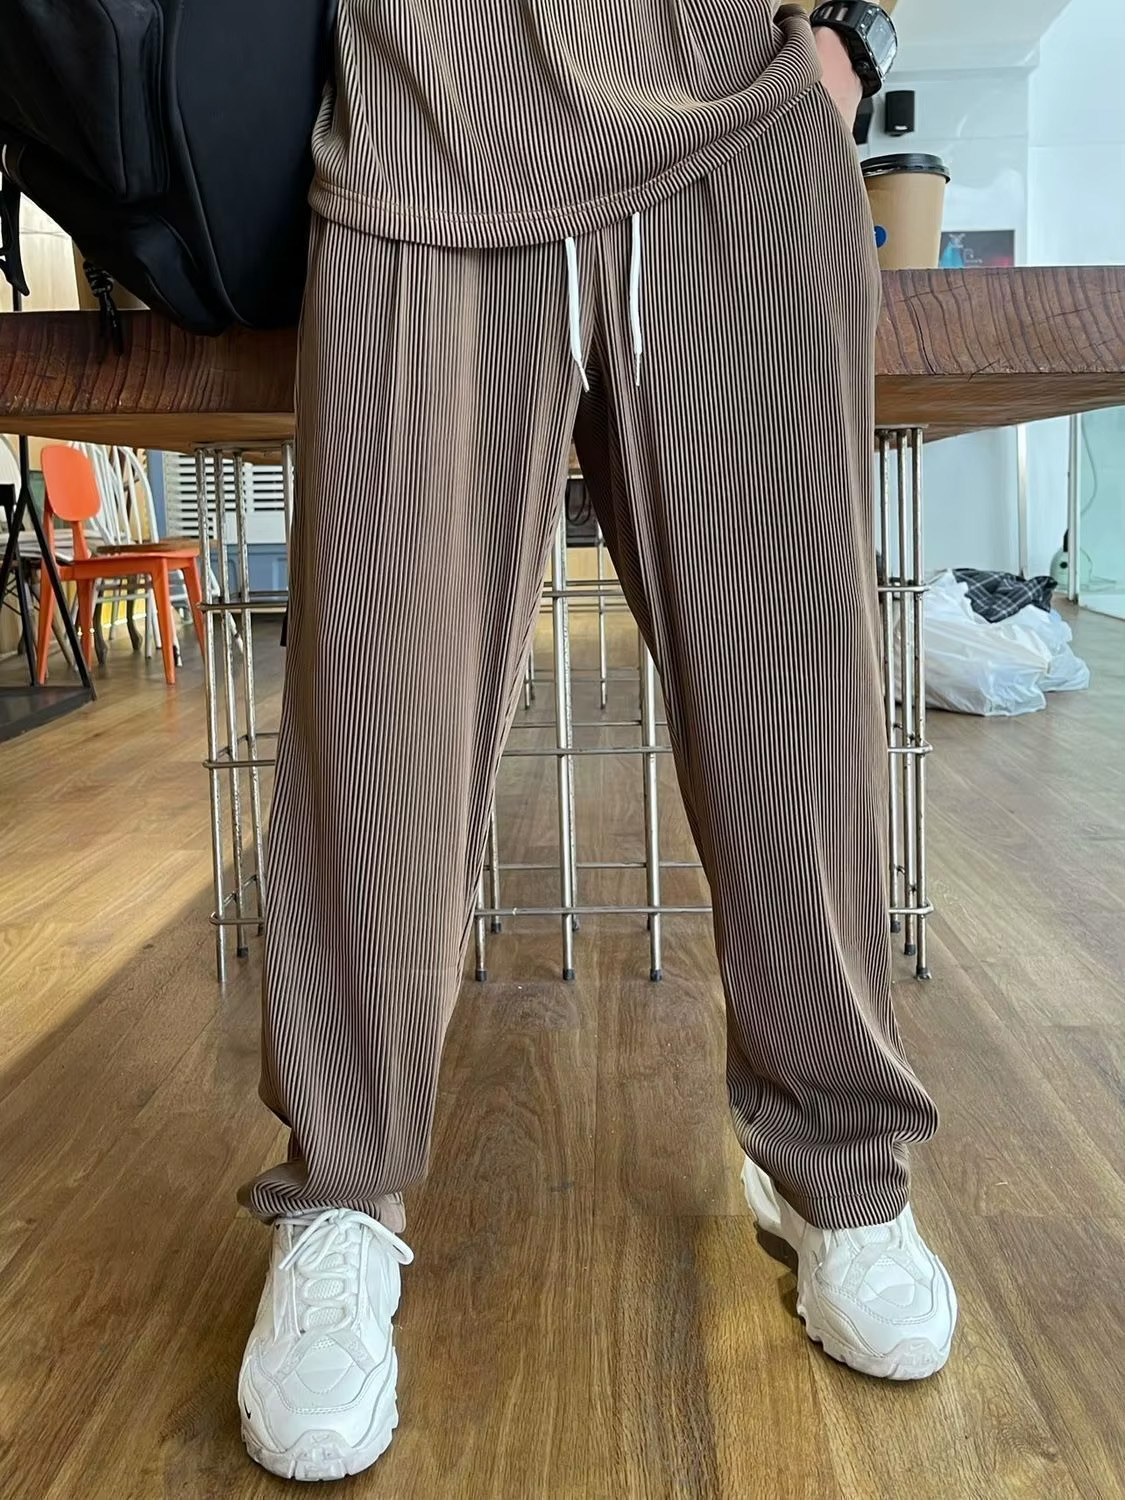
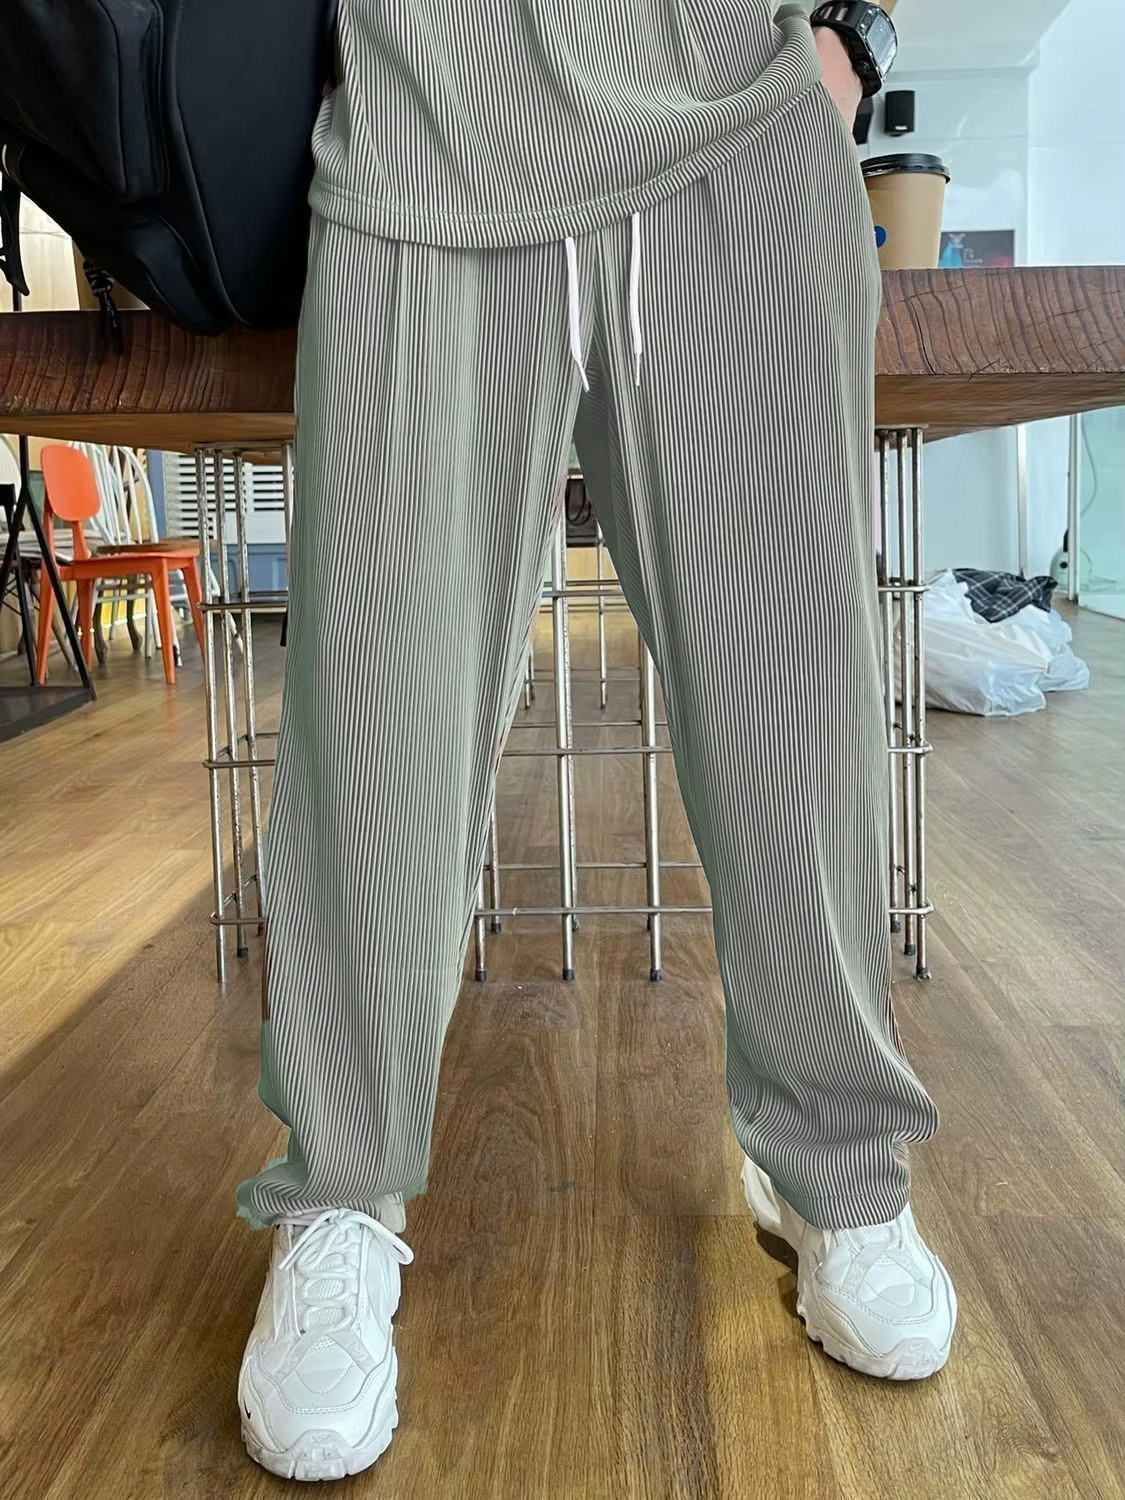
EEM sheet + colors

Changed region(s): [[0.1867, 0.0, 0.84, 0.828]]

diff --git a/ensemble-elastique-casual/index.html b/ensemble-elastique-casual/index.html
@@ -637,20 +637,18 @@
                                                             <label for="product_color_1">لون المنتج</label>
                                                             <select id="product_color_1" name="product_color_1">
                                                                 <option value="">إختيار اللون</option>
-                                                                <option value="Gris">Gris </option>
-																<option value="Marron">Marron</option>
+                                                                <option value="Gris clair">Gris clair</option>
+																<option value="Vert">Vert</option>
 																<option value="Noir">Noir</option>
-																<option value="Bleu">Bleu</option>
+																<option value="Beige">Beige</option>
                                                             </select>
                                                             <label for="product_size_1">الحجم</label>
                                                             <select id="product_size_1" name="product_size_1">
                                                                 <option value="">إختيار الحجم</option>
-                                                                <option value="S">S</option>
                                                                 <option value="M">M</option>
                                                                 <option value="L">L</option>
                                                                 <option value="XL">XL</option>
                                                                 <option value="XXL">2XL</option>
-																<option value="XXL">3XL</option>
                                                             </select>
                                                         </div>
                                                     </div>
@@ -670,40 +668,36 @@
                                                             <label for="product_color_2_1">لون المنتج</label>
                                                             <select id="product_color_2_1" name="product_color_2_1">
                                                                 <option value="">إختيار اللون</option>
-                                                                <option value="Gris">Gris </option>
-																<option value="Marron">Marron</option>
+                                                                <option value="Gris clair">Gris clair</option>
+																<option value="Vert">Vert</option>
 																<option value="Noir">Noir</option>
-																<option value="Bleu">Bleu</option>
+																<option value="Beige">Beige</option>
                                                             </select>
                                                             <label for="product_size_2_1">الحجم</label>
                                                             <select id="product_size_2_1" name="product_size_2_1">
                                                                 <option value="">إختيار الحجم</option>
-                                                                <option value="S">S</option>
                                                                 <option value="M">M</option>
                                                                 <option value="L">L</option>
                                                                 <option value="XL">XL</option>
                                                                 <option value="XXL">2XL</option>
-																<option value="XXL">3XL</option>
                                                             </select>
                                                         </div>
                                                         <div class="product-row">
                                                             <label for="product_color_2_2">لون المنتج</label>
                                                             <select id="product_color_2_2" name="product_color_2_2">
                                                                 <option value="">إختيار اللون</option>
-                                                                <option value="Gris">Gris </option>
-																<option value="Marron">Marron</option>
+                                                                <option value="Gris clair">Gris clair</option>
+																<option value="Vert">Vert</option>
 																<option value="Noir">Noir</option>
-																<option value="Bleu">Bleu</option>
+																<option value="Beige">Beige</option>
                                                             </select>
                                                             <label for="product_size_2_2">الحجم</label>
                                                             <select id="product_size_2_2" name="product_size_2_2">
                                                                 <option value="">إختيار الحجم</option>
-                                                                <option value="S">S</option>
                                                                 <option value="M">M</option>
                                                                 <option value="L">L</option>
                                                                 <option value="XL">XL</option>
                                                                 <option value="XXL">2XL</option>
-																<option value="XXL">3XL</option>
                                                             </select>
                                                         </div>
                                                     </div>
@@ -722,60 +716,54 @@
                                                             <label for="product_color_3_1">لون المنتج</label>
                                                             <select id="product_color_3_1" name="product_color_3_1">
                                                                 <option value="">إختيار اللون</option>
-                                                                <option value="Gris">Gris </option>
-																<option value="Marron">Marron</option>
+                                                                <option value="Gris clair">Gris clair</option>
+																<option value="Vert">Vert</option>
 																<option value="Noir">Noir</option>
-																<option value="Bleu">Bleu</option>
+																<option value="Beige">Beige</option>
                                                             </select>
                                                             <label for="product_size_3_1">الحجم</label>
                                                             <select id="product_size_3_1" name="product_size_3_1">
                                                                 <option value="">إختيار الحجم</option>
-                                                                <option value="S">S</option>
                                                                 <option value="M">M</option>
                                                                 <option value="L">L</option>
                                                                 <option value="XL">XL</option>
                                                                 <option value="XXL">2XL</option>
-																<option value="XXL">3XL</option>
                                                             </select>
                                                         </div>
                                                         <div class="product-row">
                                                             <label for="product_color_3_2">لون المنتج</label>
                                                             <select id="product_color_3_2" name="product_color_3_2">
                                                                 <option value="">إختيار اللون</option>
-                                                                <option value="Gris">Gris </option>
-																<option value="Marron">Marron</option>
+                                                                <option value="Gris clair">Gris clair</option>
+																<option value="Vert">Vert</option>
 																<option value="Noir">Noir</option>
-																<option value="Bleu">Bleu</option>
+																<option value="Beige">Beige</option>
                                                             </select>
                                                             <label for="product_size_3_2">الحجم</label>
                                                             <select id="product_size_3_2" name="product_size_3_2">
                                                                 <option value="">إختيار الحجم</option>
-                                                                <option value="S">S</option>
                                                                 <option value="M">M</option>
                                                                 <option value="L">L</option>
                                                                 <option value="XL">XL</option>
                                                                 <option value="XXL">2XL</option>
-																<option value="XXL">3XL</option>
                                                             </select>
                                                         </div>
                                                         <div class="product-row">
                                                             <label for="product_color_3_3">لون المنتج</label>
                                                             <select id="product_color_3_3" name="product_color_3_3">
                                                                 <option value="">إختيار اللون</option>
-                                                                <option value="Gris">Gris </option>
-																<option value="Marron">Marron</option>
+                                                                <option value="Gris clair">Gris clair</option>
+																<option value="Vert">Vert</option>
 																<option value="Noir">Noir</option>
-																<option value="Bleu">Bleu</option>
+																<option value="Beige">Beige</option>
                                                             </select>
                                                             <label for="product_size_3_3">الحجم</label>
                                                             <select id="product_size_3_3" name="product_size_3_3">
                                                                 <option value="">إختيار الحجم</option>
-                                                                <option value="S">S</option>
                                                                 <option value="M">M</option>
                                                                 <option value="L">L</option>
                                                                 <option value="XL">XL</option>
                                                                 <option value="XXL">2XL</option>
-																<option value="XXL">3XL</option>
                                                             </select>
                                                         </div>
                                                     </div>
@@ -1175,7 +1163,7 @@ document.addEventListener("DOMContentLoaded", function () {
         <!-- App footer -->
         <!-- Hookables -->
     </div>
-    <script src="api2.js?v=1.0.1"></script>
+    <script src="api2.js?v=1.0.2"></script>
     <script src="js/slides.js"></script>
     <script src="js/ycpay.js"></script>
     <script src="js/jquery-3.6.4.min.js"></script>

diff --git a/ensemble-elastique-casual/api2.js b/ensemble-elastique-casual/api2.js
@@ -165,7 +165,7 @@ document.addEventListener("DOMContentLoaded", function () {
 
         console.log("sheetDBData", sheetDBData);
 
-        fetch("https://sheetdb.io/api/v1/lgpmkzr05a372", {
+        fetch("https://sheetdb.io/api/v1/7sna82zgo8m8z", {
             method: "POST",
             headers: {
                 "Content-Type": "application/json",
